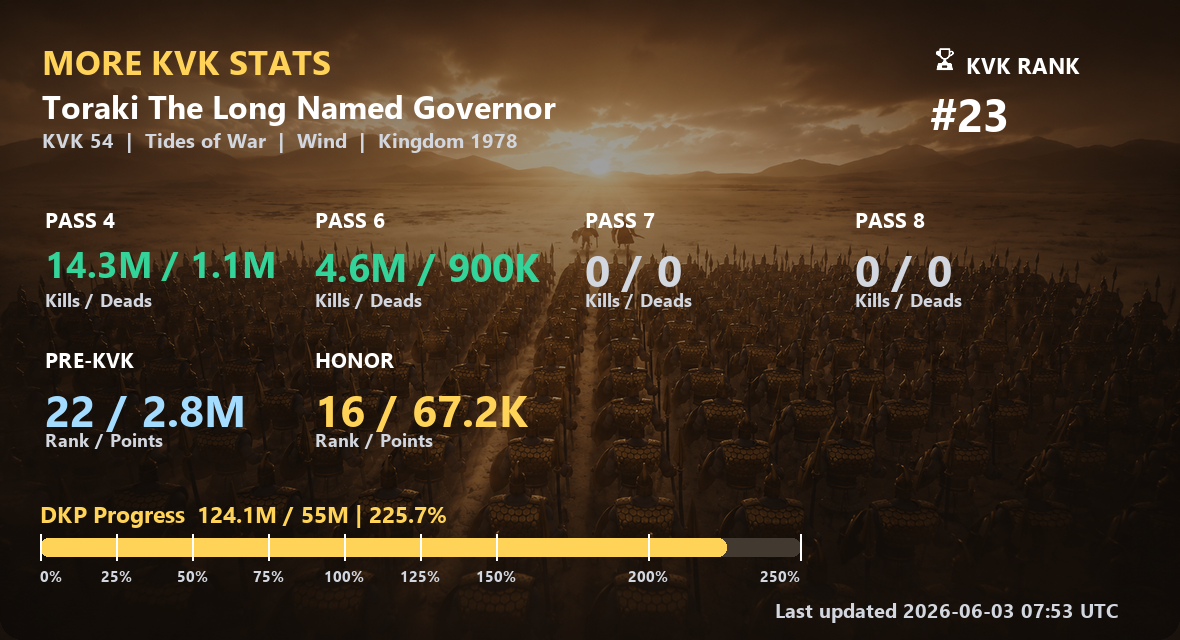
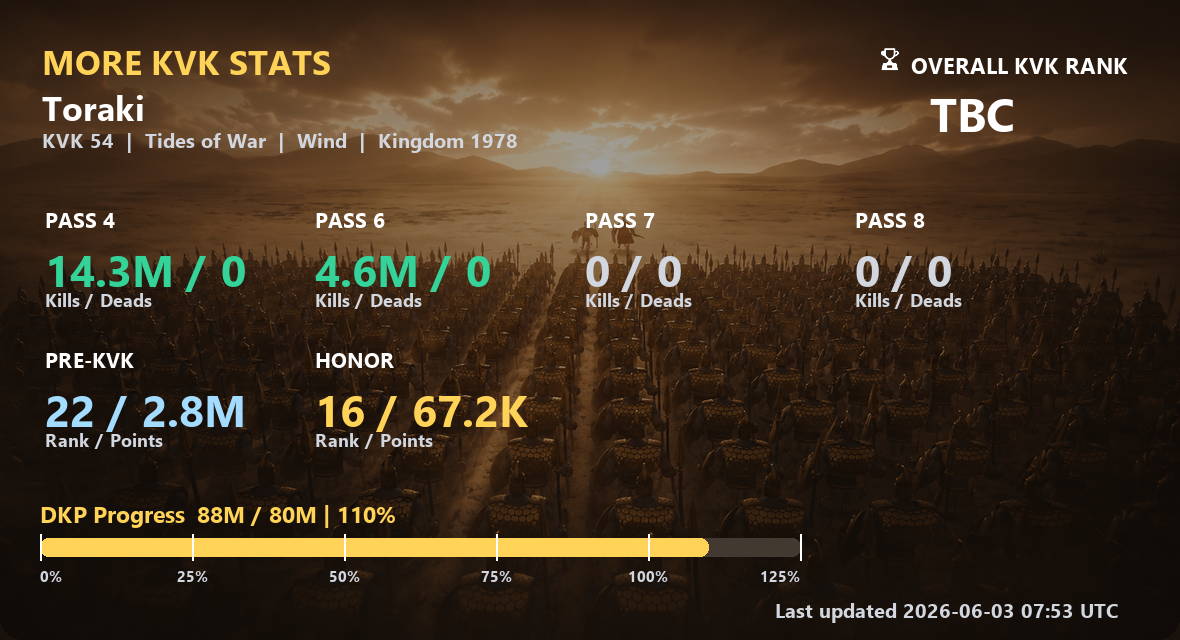
fix: clarify kvk stats card ranks

diff --git a/kvk/rendering/kvk_stats_card_renderer.py b/kvk/rendering/kvk_stats_card_renderer.py
@@ -230,6 +230,14 @@ def _rank_value(value: int | str | None) -> str:
     return f"#{value}"
 
 
+def _main_rank_value(payload: KvkStatsCardPayload) -> str:
+    return _rank_value(payload.kvk_rank)
+
+
+def _overall_kvk_rank_value() -> str:
+    return "TBC"
+
+
 def _pass_window(payload: KvkStatsCardPayload, pass_no: int) -> tuple[int, int]:
     return (
         int(payload.pass_stats.get(f"Pass {pass_no} Kills", 0) or 0),
@@ -369,7 +377,7 @@ def render_kvk_stats_card(
     _draw_text(
         draw, (rank_x, 56), "\U0001f3c6 RANK", fill=TEXT, font=_font(25, bold=True), bold=True
     )
-    rank_value = _rank_value(payload.kingdom_rank or payload.kvk_rank)
+    rank_value = _main_rank_value(payload)
     _draw_text(draw, (rank_x, 88), rank_value, fill=TEXT, font=_font(50, bold=True), bold=True)
 
     col_w = 230
@@ -486,18 +494,14 @@ def render_kvk_more_stats_card(payload: KvkStatsCardPayload) -> RenderedKvkStats
     _draw_card_header(draw, payload, title="More KVK Stats")
 
     rank_x = 930
-    _draw_text(
-        draw,
-        (rank_x, 50),
-        "\U0001f3c6 KVK RANK",
-        fill=TEXT,
-        font=_font(22, bold=True),
-        bold=True,
-    )
+    rank_label_x = 875
+    rank_label = "\U0001f3c6 OVERALL KVK RANK"
+    rank_font = _fit_font(draw, rank_label, max_width=265, size=22, min_size=16, bold=True)
+    _draw_text(draw, (rank_label_x, 50), rank_label, fill=TEXT, font=rank_font, bold=True)
     _draw_text(
         draw,
         (rank_x, 82),
-        _rank_value(payload.kvk_rank),
+        _overall_kvk_rank_value(),
         fill=TEXT,
         font=_font(46, bold=True),
         bold=True,

diff --git a/tests/test_kvk_stats_card_renderer.py b/tests/test_kvk_stats_card_renderer.py
@@ -13,6 +13,8 @@ from kvk.rendering.kvk_stats_card_renderer import (
     _background_for_mode,
     _compact,
     _history_background,
+    _main_rank_value,
+    _overall_kvk_rank_value,
     _pct,
     _progress_scale,
     render_kvk_history_card,
@@ -131,6 +133,22 @@ def test_background_selection_uses_mode_specific_assets_and_default():
     assert _background_for_mode("Songs of Troy").name == "Songs_of_Troy_Stats_card.jpg"
     assert _background_for_mode("Unknown Mode").name == "Default_card.jpg"
     assert _background_for_mode(None).name == "Default_card.jpg"
+
+
+def test_main_rank_uses_kvk_rank_not_power_rank():
+    payload = replace(_payload(), kvk_rank=23, kingdom_rank=8)
+
+    assert _main_rank_value(payload) == "#23"
+
+
+def test_main_rank_does_not_fall_back_to_power_rank():
+    payload = replace(_payload(), kvk_rank=None, kingdom_rank=8)
+
+    assert _main_rank_value(payload) == "N/A"
+
+
+def test_overall_kvk_rank_is_placeholder_until_phase_3c_data_contract():
+    assert _overall_kvk_rank_value() == "TBC"
 
 
 def test_history_background_uses_history_card_asset():

diff --git a/docs/task_packs/Codex Task Pack - KVK Player Experience Redesign Phase 3B Stats Card Polish and Secondary Cards.md b/docs/task_packs/Codex Task Pack - KVK Player Experience Redesign Phase 3B Stats Card Polish and Secondary Cards.md
@@ -211,6 +211,8 @@ Review and document:
 ### 12.3 Rank Marker
 
 - Add a trophy emoji or suitable trophy marker next to the rank label.
+- Main-card `Rank` must display the existing `KVK_RANK` value from the stats payload.
+- More Stats `Overall KVK Rank` should display `TBC` until Phase 3C introduces a durable SQL-backed overall KVK rank source.
 - Keep rank readable and avoid reintroducing a boxed badge.
 - Ensure the marker renders with the configured font fallback or use a safe text/icon fallback if emoji support is unreliable.
 
@@ -344,6 +346,8 @@ Visual validation:
 - [ ] Heroic Anthem mode uses `Heroic_Anthem_Stats_Card.jpg`.
 - [ ] Unknown/missing mode falls back safely.
 - [ ] Rank includes a trophy emoji or suitable trophy marker.
+- [ ] Main-card rank uses `KVK_RANK`.
+- [ ] More Stats overall KVK rank is marked `TBC` until Phase 3C data support is available.
 - [ ] Kills target progress ticks scale dynamically for high performers, including around `225%`.
 - [ ] Bar fill reflects progress within the selected scale.
 - [ ] `More Stats` ordering and visual hierarchy are reviewed and improved.